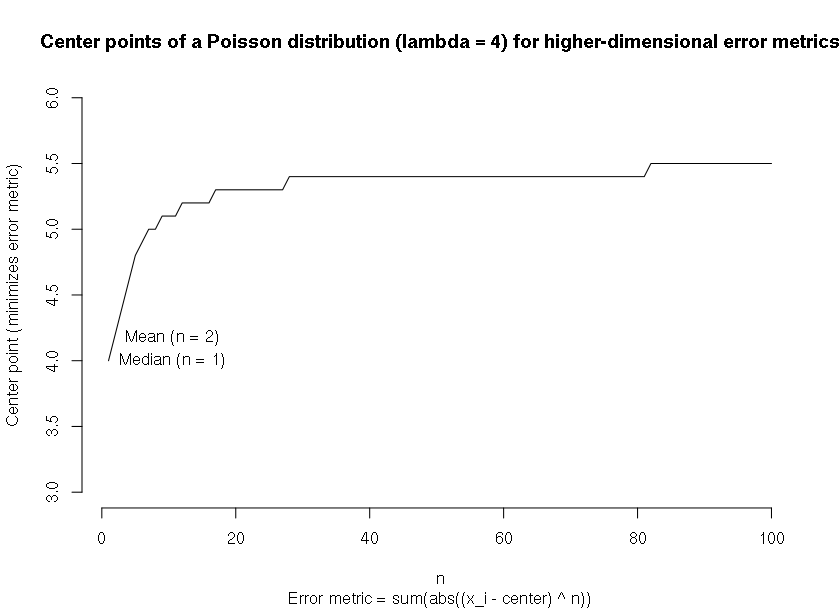
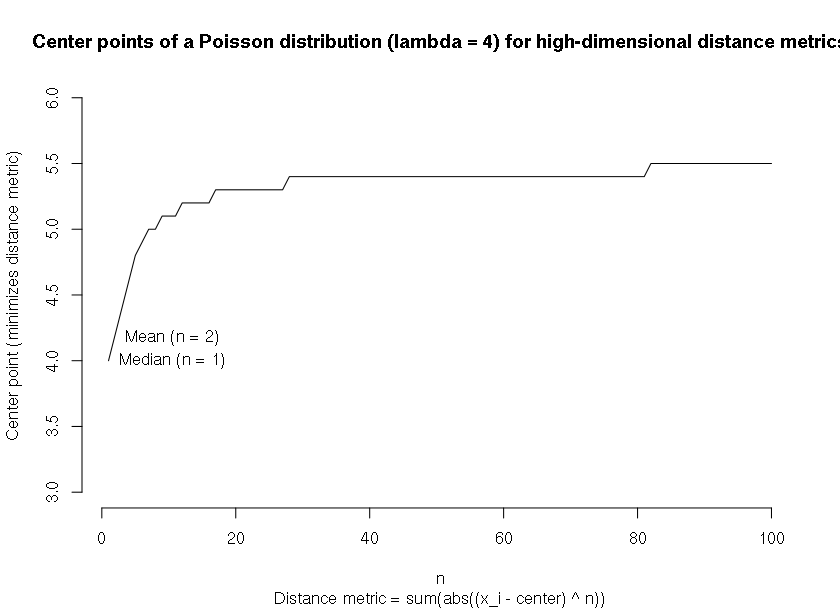
names

Changed region(s): [[0.031, 0.0311, 1.0, 0.0934], [0.0, 0.2492, 0.031, 0.7164], [0.3405, 0.9656, 0.7119, 0.9967]]

diff --git a/content/!/higher-power-error-statistics/index.md b/content/!/higher-power-error-statistics/index.md
@@ -1,13 +1,13 @@
 ---
-title: Higher-power error statistics
+title: Higher-power distance measures
 description: The mode minimizes the sum of points, the median minimizes the sum of lines, and the mean minimizes the sum of squares. What about the sum of cubes, and so on?
 facebook_image: screenshot.png
 twitter_image: screenshot.png
 tags: ['doodles']
 kind: article
 created_at: 2013-08-04
-tweet_text: Is there a name for higher-power error statistics (beyond mode, median and mean)?
-facebook_text: Is there a name for higher-power error statistics (beyond mode, median and mean)?
+tweet_text: Is there a name for higher-power distance measures (beyond mode, median and mean)?
+facebook_text: Is there a name for higher-power distance measures (beyond mode, median and mean)?
 ---
 Let's say we have a bunch of numbers, represented by the tick marks towards
 the bottom the fancy interactive plot drawing thingy below. Next, we chose
@@ -133,7 +133,7 @@ direction of the long tail of the distribution.
 ## Questions
 It seems odd to me that I haven't heard of a sum of cubes.
 Is there standard a name for the stuff I just explained?
-Does anyone use higher-power distance or centrality metrics for real things?
+Does anyone use higher-power distance or centrality measures for real things?
 
 I'm really quite curious about all of this.
 Please tweet, email, phone, &c. me if you know anything.
